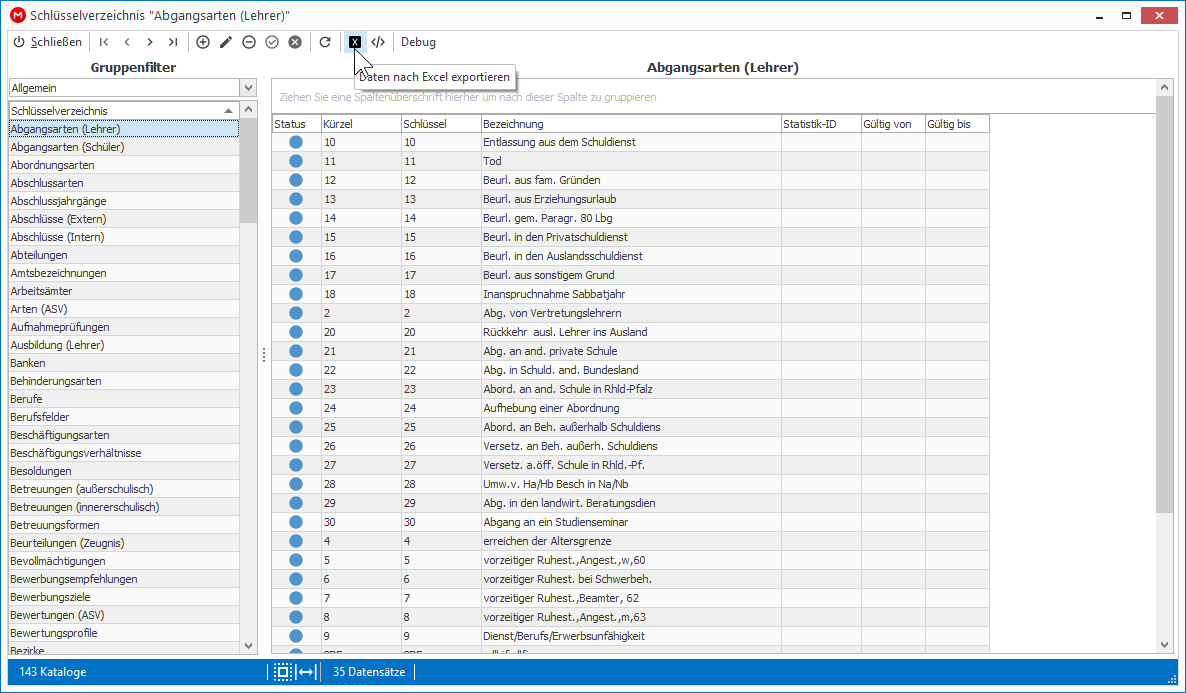
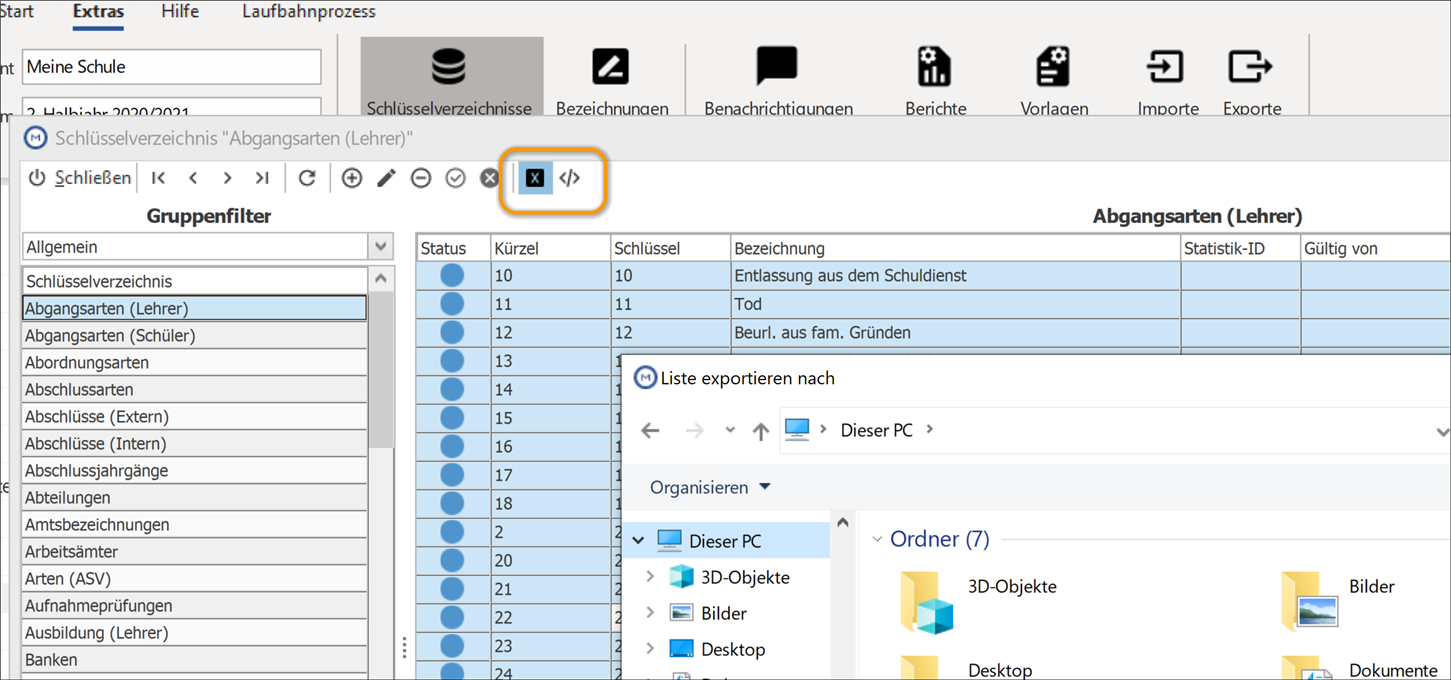
no message

diff --git a/docs/schulverwaltung/howto/dokumentenverwaltung_export.md b/docs/schulverwaltung/howto/dokumentenverwaltung_export.md
@@ -3,12 +3,16 @@
 ## Allgemeines
 
 Sie können den gesamten Schriftverkehr über MAGELLAN verwalten. Um alle Briefe, die Sie über MAGELLAN an Schüler, Bewerber, Betriebe, Sorgeberechtigte, Lehrer oder Personen gesendet haben,  zu finden, markieren Sie den entsprechenden Datensatz in der Auswahlliste, klicken Sie mit der rechten Maustaste darauf und wählen Sie `Dokumente`. Optional können Sie diesen Punkt auch über `Bearbeiten`, über das Ordnersymbol in der Menüleiste am oberen Fensterrand oder über die Tastenkombination `STRG+D` aufrufen. Das Fenster Dokumente von Person (Person bezieht sich auf den Namen der markierten Person) öffnet sich.
- 
+
 ![Hier können Sie alle Dokumente einsehen, indem Sie diese anklicken.](/assets/images/seriendruck/seriendruck13.png)
 
-Sie können auch manuell erstellte und bereits versendete Dokumente (z.B. Briefe) in die persönliche Dokumentenverwaltung importieren. Klicken Sie dazu auf dieses Symbol ![](/assets/images/seriendruck/seriendruck14.png). Es öffnet sich das Fenster `Dokumente importieren`.
- 
+Sie können auch manuell erstellte und bereits versendete Dokumente (z.B. Briefe) in die persönliche Dokumentenverwaltung importieren. Klicken Sie dazu im Menüband und `Schüler > Start` auf den Aufruf `Dokumente`. Es öffnet sich das Fenster `Dokumente importieren`.
+
 ![Dialog „Dokumente importieren“](/assets/images/seriendruck/seriendruck15.png)
+
+!!! info "Hinweis"
+
+	Wir beschreiben die Dokumentenverwaltung am Beispiel Schüler. Das Fenster lässt sich ebenfalls aus den Menüpunkten `Bewerber`, `Lehrer`, `Klassen`, `Sorgeberechtigte`, `Mandanten`, `Personen`, `Schulen` und `Adressen` starten.
 
 Suchen Sie hier das gewünschte Dokument aus und klicken Sie auf `Öffnen`. Das ausgewählte Dokument erscheint ab sofort als weiteres Symbol in der persönlichen Dokumentenverwaltung der ausgewählten Person. Um das Dokument zu öffnen, klicken Sie mit einem Doppelklick darauf.
 
@@ -25,7 +29,6 @@ Sie können auch Daten aus Digitalquellen direkt in die Dokumentenverwaltung üb
 2. Klicken Sie im Dialogfenster Dokument aus Digitalquelle erfassen auf die Schaltfläche Aufnahme aus Digitalquelle.
 
 3. Geben Sie anschließend dem erfassten Bild einen Dateinamen und klicken Sie auf `Beenden`.
- 
 
 ![Hier können Sie ein Dokument aus einer Digitalquelle erfassen](/assets/images/seriendruck/seriendruck16.png)
 
@@ -33,37 +36,34 @@ Sie können auch Daten aus Digitalquellen direkt in die Dokumentenverwaltung üb
 
 Das erfasste Bild wird als zusätzliche Datei im Dokumente-Fenster angezeigt.
 
-# Exportfunktion
+### Exportfunktion
 
 Über die Exportfunktionalität nach Microsoft Excel und HTML können Sie Schlüsselverzeichnisse und Auswahllisten in ein Excel- oder HTML-Format übertragen und dann weiterverarbeiten. Beispielsweise können Sie dann die Daten ausdrucken.
 
 ### Schlüsselverzeichnisse exportieren
 
-Sie können alle Schlüsselverzeichnisse exportieren und ausdrucken, indem Sie diese nach Excel exportieren. Rufen Sie dazu über `Extras` das entsprechende Schlüsselverzeichnis auf. Klicken Sie auf die Schaltfläche ![](/assets/images/seriendruck/seriendruck18.2.png) bzw. nach HTML. Es öffnet sich das Fenster Liste exportieren nach.
+Sie können alle Schlüsselverzeichnisse exportieren und ausdrucken, indem Sie diese nach Excel exportieren. Rufen Sie dazu über `Extras` das entsprechende Schlüsselverzeichnis auf. Klicken Sie auf die Symbole (siehe Abbildung) um den Export nach Excel oder als HTML-Datei zu starten. Es öffnet sich das Fenster Liste exportieren nach.
 
 ![Rufen Sie den Excelexport auf!](/assets/images/seriendruck/seriendruck18.1.png)
 
-
-![Wählen Sie einen Pfad und einen Dateinamen aus.](/assets/images/seriendruck/seriendruck18.png)
-
-
 Klicken Sie auf `Speichern`. Excel öffnet die neue Datei, in der Sie die Schlüsselverzeichnisse bearbeiten und dann ausdrucken können.
- 
-![Dies ist die Anzeige eines aus MAGELLAN exportierten Schlüsselverzeichnisses in Excel.](/assets/images/seriendruck/seriendruck19.png)
 
+![Dies ist die Anzeige eines aus MAGELLAN exportierten Schlüsselverzeichnisses in Excel.](/assets/images/seriendruck/seriendruck19.png)
 
 ### Auswahllisten exportieren
 
-Sie haben in der Auswahlliste die Möglichkeit, die aktuelle Bildschirmansicht (auch Gruppierungen und Sortierungen) nach Excel zu exportieren und Sie dort auszudrucken. Markieren Sie die gewünschten Datensätze in der Auswahlliste. Zum Exportieren der Daten nach Excel, klicken Sie in der Menüleiste auf die Schaltfläche ![](/assets/images/seriendruck/seriendruck18.2.png). Das Fenster Liste exportieren nach öffnet sich. Wählen Sie einen Dateinamen und einen Pfad, unter dem die Excel-Tabelle, die erstellt wird, abgespeichert werden soll. Klicken Sie auf Speichern. Excel öffnet sich. Sie können die Tabelle jetzt bearbeiten und wie gewohnt ausdrucken.
- 
-![Dies ist die Anzeige eines aus MAGELLAN exportierten Schlüsselverzeichnisses in Excel](/assets/images/seriendruck/seriendruck21.png)
+Sie haben in der Auswahlliste die Möglichkeit, die aktuelle Bildschirmansicht (auch Gruppierungen und Sortierungen) nach Excel zu exportieren und Sie dort auszudrucken. Markieren Sie die gewünschten Datensätze in der Auswahlliste. 
 
+Zum Exportieren der Daten nach Excel, klicken Sie in der Menüleiste auf die Schaltfläche (siehe Abbildung). Das Fenster Liste exportieren nach öffnet sich.
+
+![Rufen Sie den Excelexport auf!](/assets/images/seriendruck/seriendruck18.3.png)
+
+Wählen Sie einen Dateinamen und einen Pfad, unter dem die Excel-Tabelle, die erstellt wird, abgespeichert werden soll. Klicken Sie auf Speichern. Excel öffnet sich. Sie können die Tabelle jetzt bearbeiten und wie gewohnt ausdrucken.
+
+![Dies ist die Anzeige eines aus MAGELLAN exportierten Schlüsselverzeichnisses in Excel](/assets/images/seriendruck/seriendruck21.png)
 
 ### Berichte und Zeugnisse exportieren
 
 Sie können alle Berichte und Zeugnisse optional nach Excel, Word oder ins PDF-Format exportieren. Rufen Sie dazu die Seitenvorschau der Berichte oder Zeugnisse auf und klicken auf das Symbol  . Wählen Sie anschließend das gewünschte Export-Format (z.B. Word-Format) und legen Sie einen Speicherort fest. Sie können die Zeugnisse dann z.B. im Word-Format weiterverarbeiten.
- 
+
 ![Rufen Sie über diese Schaltfläche den Export in weitere Formate auf!](/assets/images/seriendruck/seriendruck22.png)
-
-
-

diff --git a/docs/schulverwaltung/howto/seriendruck.md b/docs/schulverwaltung/howto/seriendruck.md
@@ -45,14 +45,14 @@ An den aktuellen Betrieb der markierten Schüler|ein Brief pro markiertem Schül
  
 ![Seriendruck-Assistent „Vorlage auswählen“](/assets/images/seriendruck/seriendruck3.png)
 
-
-Wählen Sie, ob Sie die Daten mit einer leeren MAGELLAN-Vorlage verknüpfen wollen und das gefüllte Dokumente in der Dokumentenverwaltung speichern wollen, ob Sie die Daten mit einer leeren MAGELLAN-Vorlage verknüpfen wollen oder ob Sie auf ein bereits erstelltes Dokument zurückgreifen möchten. 
+Wählen Sie, ob Sie die Daten mit einer leeren MAGELLAN-Vorlage verknüpfen wollen und das gefüllte Dokumente in der Dokumentenverwaltung speichern wollen, ob Sie die Daten mit einer leeren MAGELLAN-Vorlage verknüpfen wollen oder ob Sie auf ein bereits erstelltes Dokument zurückgreifen möchten.
 
 Klicken Sie auf `Weiter` und dann auf `Fertigstellen`. In beiden Fällen wird Word gestartet. Alle Dokumente, die in dem Ordner `MAGELLAN > Vorlagen > Schüler` abgespeichert wurden, können Sie bei einem Seriendruck an die Schüler unter Vorlage aufrufen.
 
 !!! info "Hinweis"
 
     Um die Option Daten mit einer Vorlage verknüpfen und vor dem Start von Word/LibreOffice das gefüllte Dokument pro Schüler in der Dokumentenverwaltung speichern nutzen zu können, müssen Sie in den Optionen von MAGELLAN die entsprechenden Einstellungen gewählt haben.
+    Aus Word kann je Schüler (alternativ Bewerber, Lehrer, Klasse, Sorgeberechtigte je nach Startmenüpunkt) in den Unterordnern als Worddokument gespeichert werden. Verwenden Sie LibreOffice speichert MAGELLAN die Daten in einer PDF-Datei.
 
 Sie können alle erstellten Vorlagen bequem von MAGELLAN aus verwalten. Klicken Sie dazu auf die Schaltfläche `Organisieren`. Es öffnet sich das Fenster `Vorlagen organisieren`.
 
@@ -64,13 +64,13 @@ Das Fenster `„Vorlagen organisieren“` besteht aus einer Schnellstartleiste a
 
 Um eigene Vorlagen einzufügen, gehen Sie bitte folgendermaßen vor:
 
-1. Sie starten den Seriendruck und wählen die Option „Daten mit einem vorhandenen Dokument verknüpfen“. Verweisen Sie dabei auf die Datei, die den vorbereiteten Text enthält, aber noch keine Seriendruckfelder. 
+1. Sie starten den Seriendruck und wählen die Option „Daten mit einem vorhandenen Dokument verknüpfen“. Verweisen Sie dabei auf die Datei, die den vorbereiteten Text enthält, aber noch keine Seriendruckfelder.
 
 2. Word/LibreOffice startet, Sie sehen Ihren Text und können nun Ihre Seriendruckfelder an den gewünschten Stellen platzieren.
 
-3. Wählen Sie `Datei > Speichern unter` und passen bitten den `Dateityp `auf `*.dotx oder *.ott` an. Speichern Sie das Dokument an einer beliebigen Stelle.
+3. Wählen Sie `Datei > Speichern unter` und passen bitten den `Dateityp` auf `*.dotx oder *.ott` an. Speichern Sie das Dokument an einer beliebigen Stelle.
 
-4. Wechseln Sie an die Stelle und kopieren Ihre Vorlage in die Zwischenablage, öffnen MAGELLAN und wählen `Extras > Vorlagen organisieren > Schüler/Bewerber...` und fügen über `Rechtsklick > Einfügen` Ihre Datei mit der Endung *.ott oder *.dotx ein.
+4. Wechseln Sie an die Stelle und kopieren Ihre Vorlage in die Zwischenablage, öffnen MAGELLAN und wählen `Extras > Vorlagen organisieren > Schüler/Bewerber...` und fügen über `Rechtsklick > Einfügen` Ihre Datei mit der Endung `*.ott` oder `*.dotx` ein.
 
 Beim nächsten Aufruf des Seriendrucks finden Sie unter den Beispielvorlagen im Punkt `„Daten mit einer Vorlage verknüpfen“` Ihre Vorlage mit zu Auswahl.
 
@@ -91,7 +91,7 @@ Nach Word/LibreOffice werden pro Schüler Daten über den aktuellen Betrieb, die
 ### Den Ausbilder per Mail anschreiben?
 
  Wenn Sie die Nachricht nicht postalisch sondern per Mail versenden möchten, können Sie den fertigen Serienbrief auch aus Word/LibreOffice heraus per Mail versenden. Beide Programme lassen den Versand der Seriendruckdaten per Mail zu.
- 
+
 ### An die Sorgeberechtigten des Schülers
 
 !!! info "Hinweis"

diff --git a/docs/changelog/changelog-next.md b/docs/changelog/changelog-next.md
@@ -14,6 +14,8 @@ CHANGE    | Änderung des Ablaufs, Verarbeitung oder Bedienung
 
 !!! danger "Achtung"
 
+    **OPAC-Anbindung der MAGELLAN Bibliothek**: Durch Änderungen der Schnittstelle durch die Deutsche Nationalbibliothek können aktuell keine Daten ausgelesen werden, die Funktion steht damit aktuell nicht zur Verfügung.
+    
     **Umlaute**: Falls Sie das Problem haben, dass beim Druck aus MAGELLAN Umlaute nicht korrekt dargestellt werden, kann die Ursache beim ODBC-Treiber Ihres Betriebssystems liegen. Bitte folgen Sie der [Anleitung](https://doc.kb.stueber.de/magellan/umlaute_druck.html)!
 
     **MyMAGELLAN**: Bitte beachten Sie, dass mit einer der letzten Versionen das Dateiformat der MyMagellan Dateien geändert wurde. Bitte passen Sie den Pfad im `MAGELLAN Administrator > MyMagellan Center` auf die Dateiendung `.mymx` an.

diff --git a/docs/changelog/changelog.md b/docs/changelog/changelog.md
@@ -20,6 +20,8 @@ CHANGE    | Änderung des Ablaufs, Verarbeitung oder Bedienung
 
 !!! danger "Achtung"
 
+    **OPAC-Anbindung der MAGELLAN Bibliothek**: Durch Änderungen der Schnittstelle durch die Deutsche Nationalbibliothek können aktuell keine Daten ausgelesen werden, die Funktion steht damit aktuell nicht zur Verfügung.
+    
     **Umlaute**: Falls Sie das Problem haben, dass beim Druck aus MAGELLAN Umlaute nicht korrekt dargestellt werden, kann die Ursache beim ODBC-Treiber Ihres Betriebssystems liegen. Bitte folgen Sie der [Anleitung](https://doc.kb.stueber.de/magellan/umlaute_druck.html)!
 
     **MyMAGELLAN**: Bitte beachten Sie, dass mit einer der letzten Versionen das Dateiformat der MyMagellan Dateien geändert wurde. Bitte passen Sie den Pfad im `MAGELLAN Administrator > MyMagellan Center` auf die Dateiendung `.mymx` an.

diff --git a/docs/changelog/neu.mag8.md b/docs/changelog/neu.mag8.md
@@ -120,6 +120,7 @@ Die Möglichkeit einen Kontakt für Betrieb zu hinterlegen `Betriebe > Kontakte`
 #### Anbindung an LibreOffice
 
 Sie können unter `Datenbank > Optionen > Dokumente > Seriendruck` wählen, ob die Seriendruckdaten aus MAGELLAN an Word oder an LibreOffice übergeben werden sollen. Je nach Auswahl wird beim Aufruf der Seriendruckfunktionalität Word oder LibreOffice aufgerufen und Sie können die übergebenen Daten im gewählten Zielprogramm wie gewohnt weiterverarbeiten.
+Wählen Sie die Option, das gefüllte Dokument vor der Übergabe nach LibreOffice in der Dokumentenverwaltung zu speichern, wird die Vorlage mit den Daten befüllt und im PDF-Format im jeweiligen Unterordner abgelegt.
 
 #### Schüler
 
